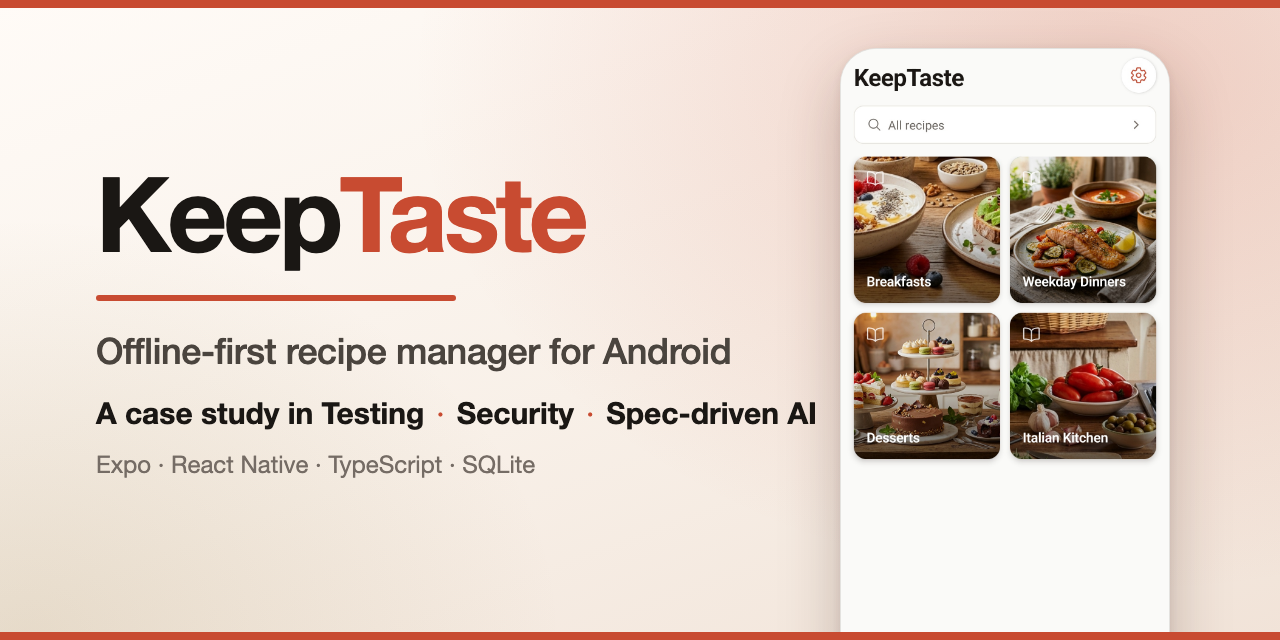
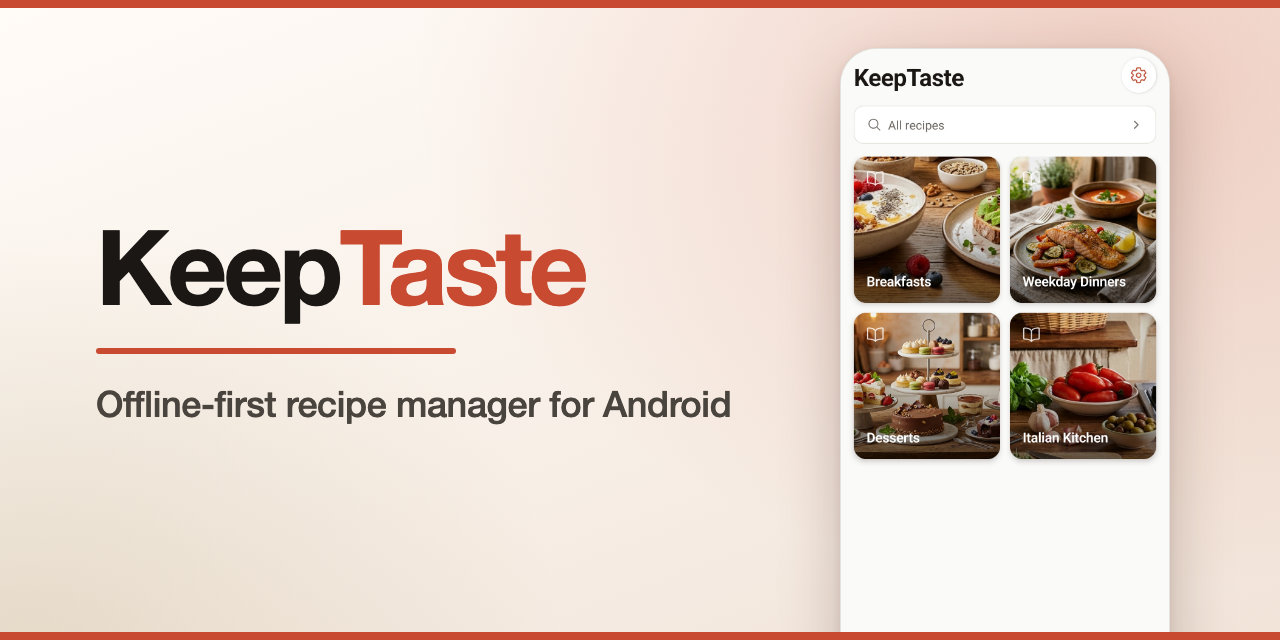
chore(github): drop the case-study and stack lines from the social preview
The card now carries only the wordmark and the tagline next to the
home-screen capture.

Changed region(s): [[0.0625, 0.25, 0.4688, 0.5], [0.0625, 0.5312, 0.6562, 0.75]]

diff --git a/scripts/build-social-preview.ts b/scripts/build-social-preview.ts
@@ -1,7 +1,7 @@
 // Renders the GitHub social preview (1280x640) — the card shown when a link to
 // the repository is shared. Same palette, type and device frame as the Play
-// feature graphic (scripts/lib/brand.ts), but the copy speaks to the readers
-// of the repository: what the app is, and what the repository shows.
+// feature graphic (scripts/lib/brand.ts); the copy is the wordmark and a
+// one-line tagline.
 //
 // GitHub has no API for the social preview: upload the output by hand in
 // Settings → General → Social preview. GitHub keeps the important content
@@ -30,9 +30,6 @@ const HEIGHT = 640;
 const CAPTURE_SCREEN = '01-cookbooks';
 
 const TAGLINE = 'Offline-first recipe manager for Android';
-/** What the repository is a case study in. */
-const POINTS = ['Testing', 'Security', 'Spec-driven AI'];
-const STACK = 'Expo · React Native · TypeScript · SQLite';
 
 function html(capture: string): string {
   return `<!doctype html>
@@ -69,18 +66,6 @@ function html(capture: string): string {
     letter-spacing: -0.01em;
     color: ${Palette.body};
   }
-  .points {
-    margin-top: 22px;
-    font-size: 30px;
-    font-weight: 600;
-    color: ${Palette.ink};
-  }
-  .points b { color: ${Palette.primary}; font-weight: 400; padding: 0 12px; }
-  .stack {
-    margin-top: 18px;
-    font-size: 24px;
-    color: ${Palette.faint};
-  }
 
   .device {
     position: absolute;
@@ -106,8 +91,6 @@ function html(capture: string): string {
     <div class="wordmark">Keep<span>Taste</span></div>
     <div class="rule"></div>
     <div class="tagline">${escapeHtml(TAGLINE)}</div>
-    <div class="points">A case study in ${POINTS.map(escapeHtml).join('<b>·</b>')}</div>
-    <div class="stack">${escapeHtml(STACK)}</div>
   </div>
   <div class="device"><img src="${capture}"></div>
   <div class="edge bottom"></div>
